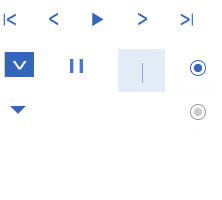
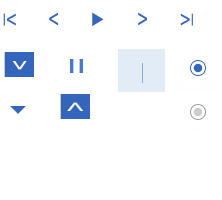
ljy

Changed region(s): [[0.2703, 0.45, 0.4054, 0.6]]

diff --git a/source/c/english/product.css b/source/c/english/product.css
@@ -44,20 +44,16 @@
 */.left .contro1 div.r ul li,.area ul li,.city ul li{border-bottom: 1px solid #ccc;	 color: #494949;text-indent: 8px; font-size: 14px;}
 .left .contro1 div.r ul li.on,.area ul li.on,.city ul li.on{background: #c5dbf3; color: #fff;}
 
-
-
 .left .contro2{margin-top: 13px;margin-left: 12px;color: #494949;line-height: 24px;}
 .left .contro2 h1{float: left;font-size: 14px;}
 .left .contro2 ul{margin-left: 36px;float: left;}
 .left .contro2 ul li{background-image: url('../../i/english/product/icon.jpg');background-repeat: no-repeat;cursor: pointer; background-position: -189px -100px;margin-right: 97px; _margin-right:90px;float: left;padding-left: 28px;_padding-left:20px;}
 .left .contro2 ul li.on{background-position: -189px -56px;}
 
-
 .left .contro3{font-size: 14px;margin-left: 12px;margin-top: 17px;color: #494949;}
 .left .contro3 h1{height: 25px;line-height: 25px;float: left;font-size: 14px;}
 .left .contro3 .area{float: left;margin-left:56px;width: 150px;text-align: center;z-index: 1;}
 .left .contro3 .area p{width: 120px;}
-.left .contro3 .area i{}
 .left .contro3 .area ul{width: 119px;}
 .left .contro3 .area ul li{}
 .left .contro3 .city{float: left;text-align: center;width: 157px;z-index: 1;}
@@ -69,7 +65,7 @@
 .left .about h1{background: #e2ecf7;height: 36px; text-indent: 10px; line-height: 36px;font-size: 18px;}
 .left .about p{color:#494949;line-height: 25px;font-size: 14px;margin-top: 7px;padding-left: 2px;}
 /*卫星 begin*/
-.satellite{min-height: 900px;}
+.satellite{}
 .satellite .left .contro1{margin-top: 20px;}
 .satellite .left .img{border: none;width: 630px;}
 .satellite .left .img img{width: 630px;margin: 0;}
@@ -78,19 +74,16 @@
 .satellite .left .contro3 .area ul li{width: 100%;overflow: hidden;white-space: nowrap;text-overflow:ellipsis;}
 .satellite .left .contro3 .area ul li a:hover{color: #494949}
 .satellite .left .contro3 .area p{width: 229px;overflow: hidden;white-space: nowrap;text-overflow:ellipsis;}
-
 .satellite .left .contro3 .area{z-index: 3;}
 .satellite .left .contro3 .area ul{top: -97px;}
- 
-
 .satellite .left .contro1 div.right {height: 23px;z-index: 2; width: 250px;position: relative;border: 1px solid #ccc; position: relative;float: left;line-height: 23px;cursor: pointer;}
 .satellite .left .contro1 div.right div{display: none;}
 .satellite .left .contro1 div.right p{text-indent: 8px;font-size: 14px;width: 220px; white-space: nowrap; overflow: hidden;}
-.satellite .left .contro1 div.right i{background: url('../../i/english/product/icon.jpg') no-repeat -4px -52px;height: 25px; width: 31px;position: absolute;top: 0;right: 0;display:block;margin-right: -1px;margin-top: -1px;}
-.satellite .left .contro1 div.right ul{display: none; background: #fff; border:1px solid #ccc;border-bottom: none; position: absolute;bottom: 23px;left: 0px;;position: absolute;left: 0;top: 23px;width: 219px;}
+.satellite .left .contro1 div.right i{background: url('../../i/english/product/icon.jpg') no-repeat -60px -94px;height: 25px; width: 31px;position: absolute;top: 0;right: 0;display:block;margin-right: -1px;margin-top: -1px;}
+.satellite .left .contro1 div.right ul{display: none; background: #fff; border:1px solid #ccc;border-bottom: none; position: absolute;bottom: 23px;left: 0px;;position: absolute;left: 0;width: 219px;}
 .satellite .left .contro1 div.right ul li{border-bottom: 1px solid #ccc;	 color: #494949;text-indent: 8px; font-size: 14px;}
 .satellite .left .contro1 div.right ul li.on{background: #c5dbf3; color: #fff;}
-
+.satellite .left .contro3 .area i{background:url("../../i/english/product/icon.jpg") no-repeat -60px -94px;}
 /*卫星 end*/
 /*预报 begin*/
 .forecast{min-height: 900px;}
@@ -107,22 +100,14 @@
 .forecast .left .show .txt{padding-left: 10px;margin-top: 20px;}
 .forecast .left .show .img{height: 544px;}
 .forecast .left .show .img img{margin-top: -4px;margin-left: -3px;}
-
-
-
 /*预报 end*/
-
-
-
 .right .r{ width:120px;}
-
 .right .r .txt{ padding-left:12px; height:54px;margin-top: 4px; overflow:hidden; color:#333;color: #3466bb;}
 .right .r .time{height:45px; padding-left:34px; color:#666; padding-top:8px;font-size: 12px;}
 .right .r a{ font-size:14px; float:right; color:#3466bb; line-height:20px;}
 .right .r a:hover{ text-decoration:underline;}
 .right .mt{ margin-top:12px;}
-
-.right {float: left;color:#494949;width: 312px;margin-left: 12px;font-size: 14px;line-height: 16px; _margin-left: 0px;_width: 317px;}
+.right {float: left;color:#494949;width: 312px;margin-left: 12px;font-size: 14px;line-height: 16px; _margin-left: 8px;_width: 317px;}
 .right h1{height: 40px; line-height: 40px;font-size: 18px;}
 .right .img1 img,.img2 img{float: left;}
 .right .d1{float: left;display: table;width:132px;height: 125px;_width:134px;*position:relative;}
@@ -130,8 +115,6 @@
 .right .d3{padding-left: 11px;*position:relative;*top:-50%; }
 
 .right .img2{margin-top: 11px;}
-
-
 .right .ad1{margin-top: 10px;}
 .right .ad1 img{}
 .right .ad2{margin-top: 10px;}

diff --git a/source/j/english/satellite.js b/source/j/english/satellite.js
@@ -36,10 +36,10 @@ define(function(require){
 				$ul.show();
 			};
 		}).mouseleave(function(){
-			$(this).find('ul').slideUp('fast');
+			$(this).find('ul').hide();
 		})
 		//第一个下拉窗中标签li的点击事件
-		$('.contro1 divsatellitesatellitesatellite ul li').live('mouseenter click',function(event){
+		$('.contro1 .right ul li').live('mouseenter click',function(event){
 			if (event.type == 'mouseenter') {
 				$(this).addClass('on').siblings().removeClass('on');
 			}else{
